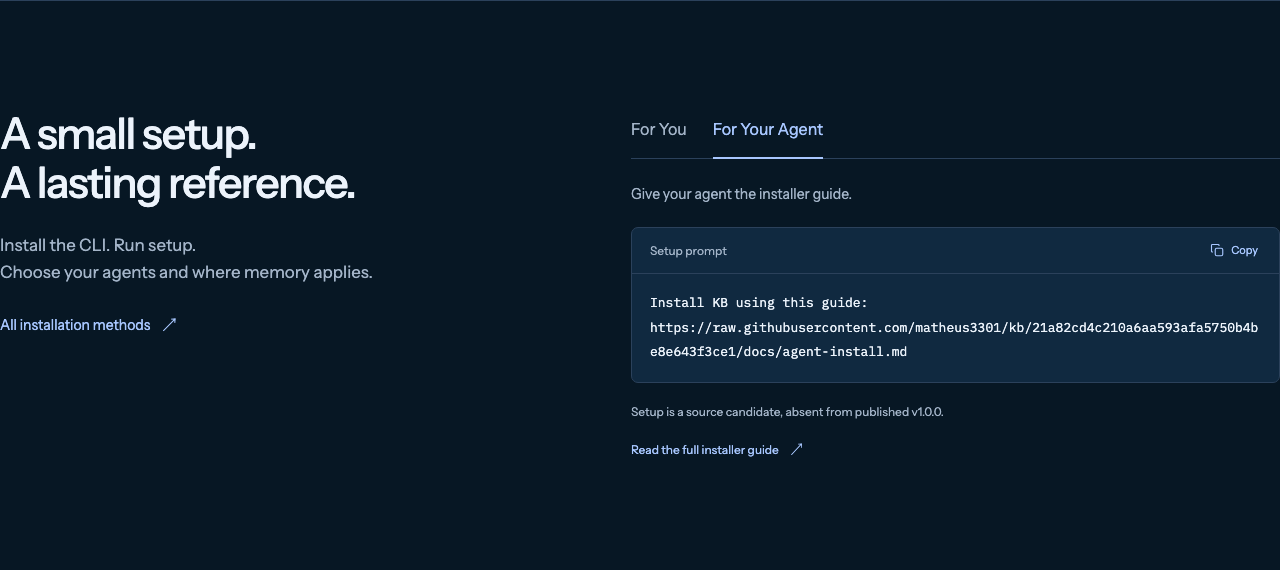
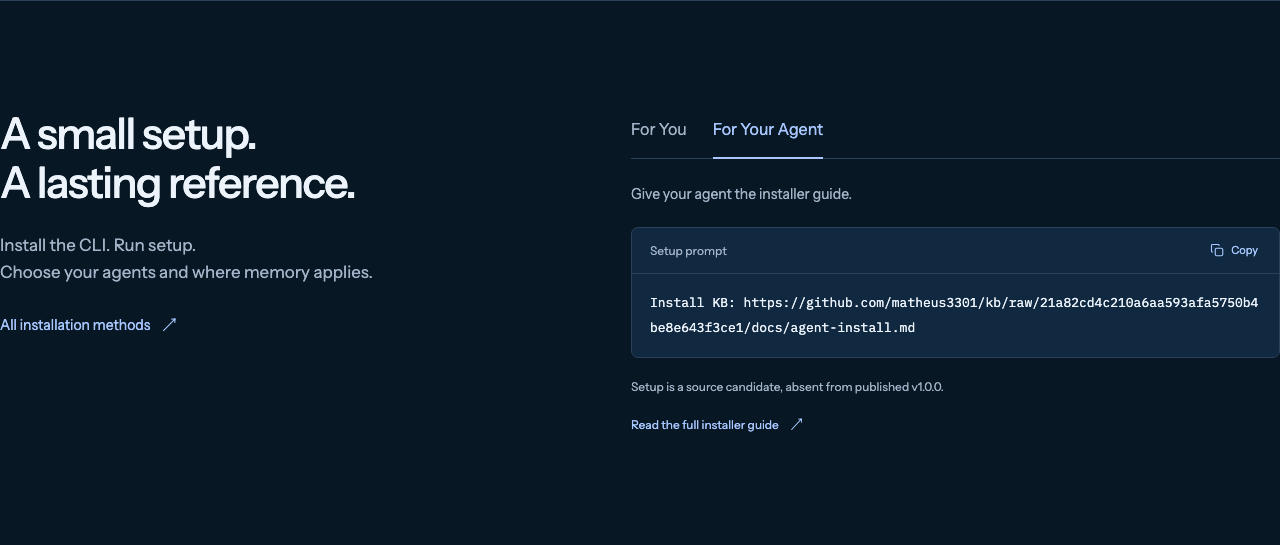
docs(site): refresh three-line installer prompt evidence

diff --git a/docs/evidence/setup-site/README.md b/docs/evidence/setup-site/README.md
@@ -11,9 +11,11 @@ These images show public onboarding, not proof of native agent activation.
 - [Human setup, mobile](mobile-human.png)
 - [Agent setup, mobile](mobile-agent.png)
 
-The prompt is two source lines (140 characters), not a joined instruction block.
-Actual desktop/mobile browser review measured prompt cards at approximately
-156/186 CSS pixels high, with no horizontal page overflow. The full installer
-policy lives in the linked Markdown guide; its fetched bytes matched the
-committed guide at its immutable published commit. Human screenshots were freshly
-captured and remain byte-identical because their rendered content did not change.
+The installation prompt is one source line (112 characters), rendered as two
+desktop lines and three mobile lines at 390px. Text remains complete and uses
+the unchanged 13px font with a 24.7px line height; no clipping or truncation.
+Actual desktop/mobile prompt cards measured approximately 131/161 CSS pixels,
+with zero horizontal page overflow. The full installer policy lives in the
+linked Markdown guide; its redirected raw bytes matched the immutable committed
+guide. Human screenshots were freshly captured and remain byte-identical because
+their rendered content did not change.
